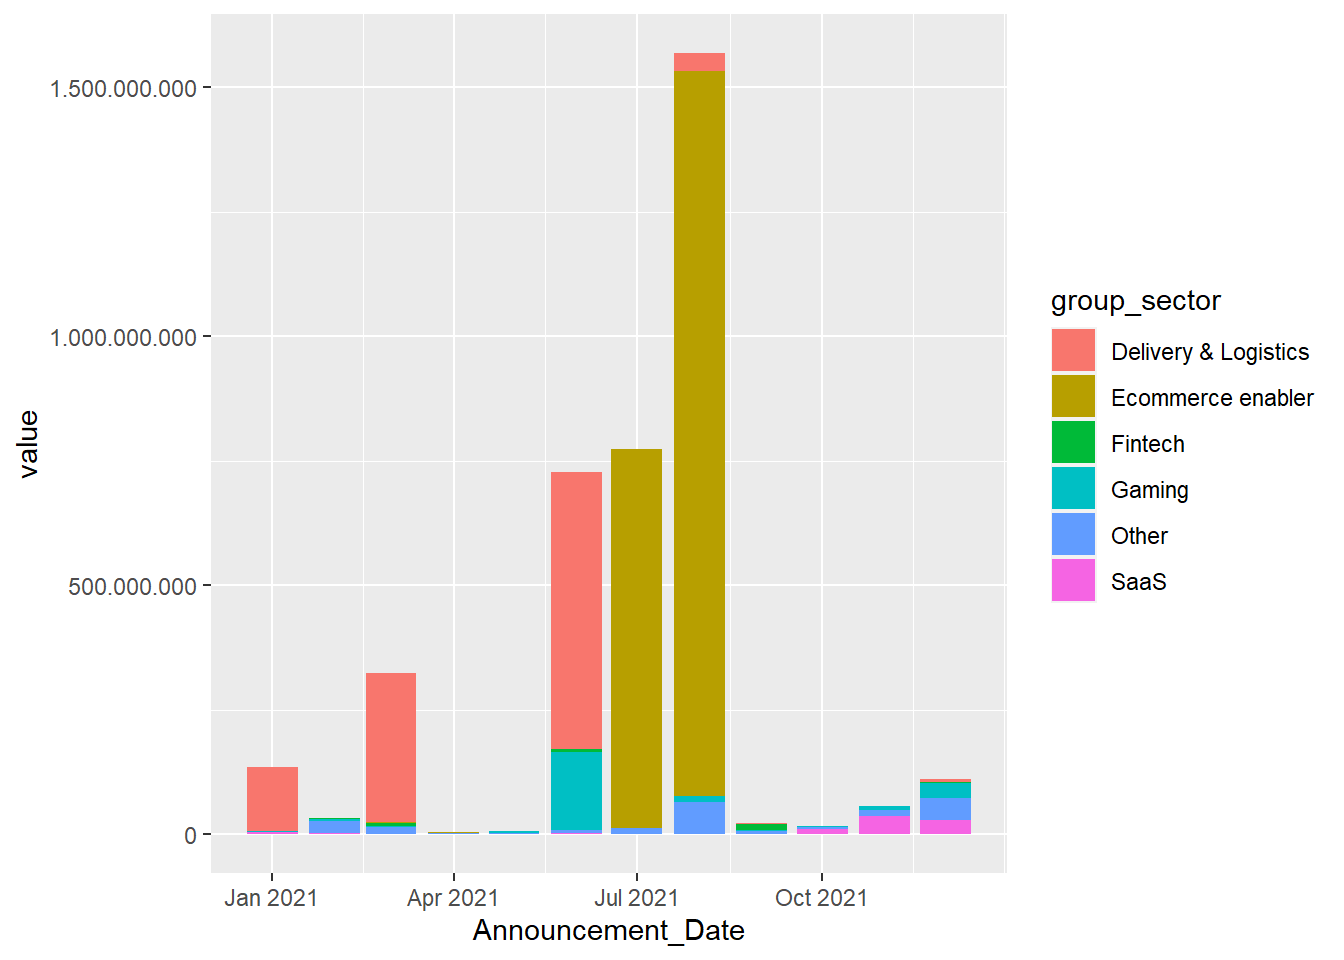
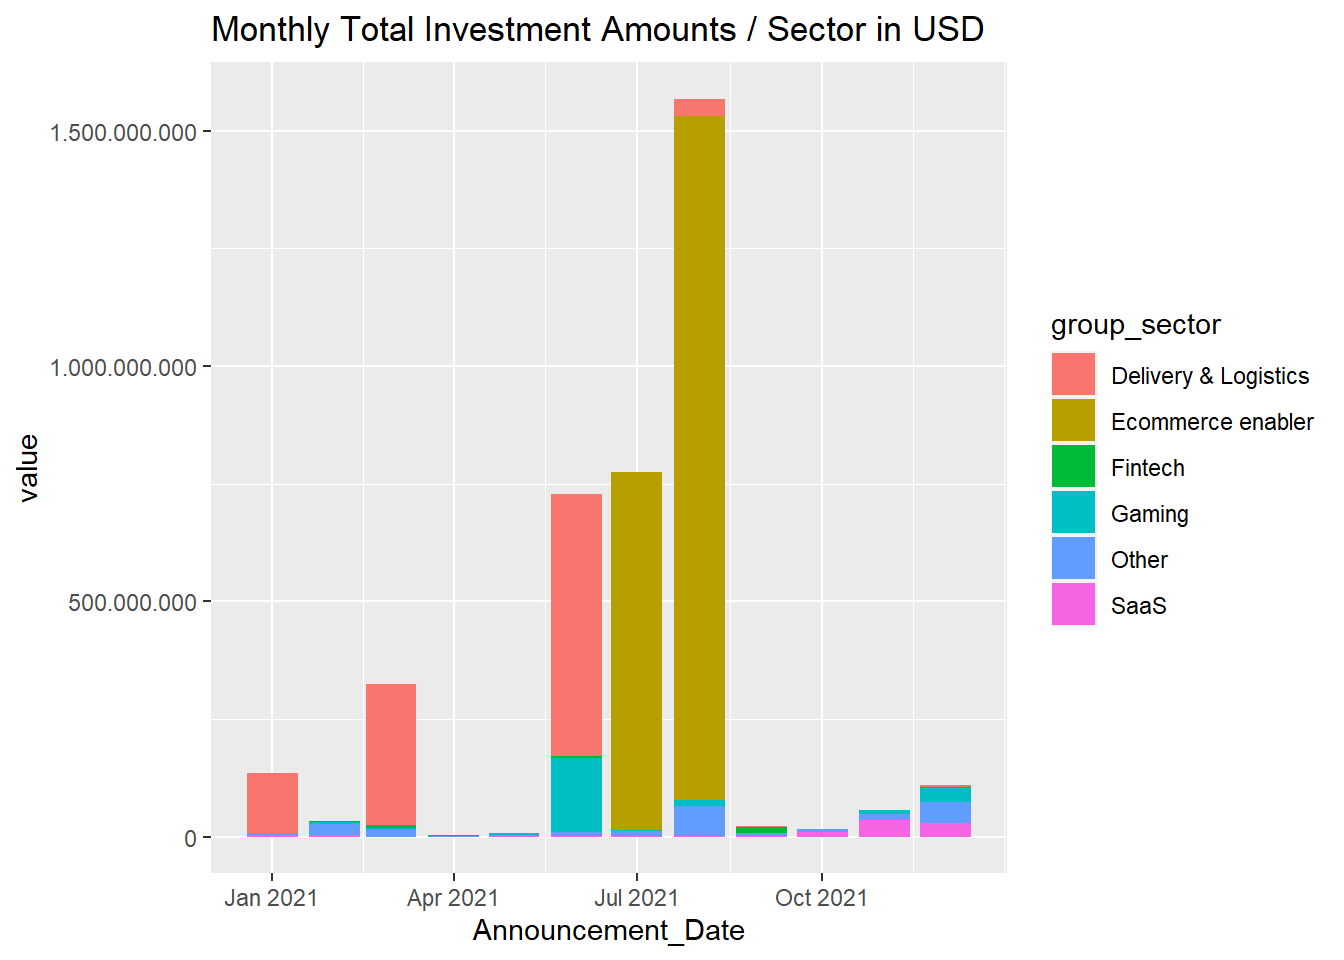
13.11 V2

diff --git a/docs/assignment1.html b/docs/assignment1.html
@@ -264,22 +264,21 @@ code span.wa { color: #60a0b0; font-weight: bold; font-style: italic; } /* Warni
 <span id="cb2-8"><a href="#cb2-8" aria-hidden="true" tabindex="-1"></a></span>
 <span id="cb2-9"><a href="#cb2-9" aria-hidden="true" tabindex="-1"></a><span class="co"># Convert data type of numeric columns from string to numeric</span></span>
 <span id="cb2-10"><a href="#cb2-10" aria-hidden="true" tabindex="-1"></a>startup<span class="sc">$</span><span class="st">`</span><span class="at">Deal_Value_(USD)</span><span class="st">`</span> <span class="ot">&lt;-</span> <span class="fu">as.numeric</span>(startup<span class="sc">$</span><span class="st">`</span><span class="at">Deal_Value_(USD)</span><span class="st">`</span>)</span>
-<span id="cb2-11"><a href="#cb2-11" aria-hidden="true" tabindex="-1"></a></span>
-<span id="cb2-12"><a href="#cb2-12" aria-hidden="true" tabindex="-1"></a><span class="co"># Convert percentages to numeric format</span></span>
-<span id="cb2-13"><a href="#cb2-13" aria-hidden="true" tabindex="-1"></a>startup<span class="sc">$</span><span class="st">`</span><span class="at">Stake_(%)</span><span class="st">`</span> <span class="ot">&lt;-</span> startup<span class="sc">$</span><span class="st">`</span><span class="at">Stake_(%)</span><span class="st">`</span> <span class="sc">%&gt;%</span> </span>
-<span id="cb2-14"><a href="#cb2-14" aria-hidden="true" tabindex="-1"></a>  <span class="fu">gsub</span>(<span class="st">"</span><span class="sc">\\</span><span class="st">..*"</span>, <span class="st">""</span>, .) <span class="sc">%&gt;%</span> </span>
-<span id="cb2-15"><a href="#cb2-15" aria-hidden="true" tabindex="-1"></a>  <span class="fu">gsub</span>(<span class="st">"%"</span>, <span class="st">""</span>, .) <span class="sc">%&gt;%</span> </span>
-<span id="cb2-16"><a href="#cb2-16" aria-hidden="true" tabindex="-1"></a>  <span class="fu">as.numeric</span>()</span>
-<span id="cb2-17"><a href="#cb2-17" aria-hidden="true" tabindex="-1"></a></span>
-<span id="cb2-18"><a href="#cb2-18" aria-hidden="true" tabindex="-1"></a><span class="co"># Convert string date to date format</span></span>
-<span id="cb2-19"><a href="#cb2-19" aria-hidden="true" tabindex="-1"></a>startup<span class="sc">$</span>Announcement_Date <span class="ot">&lt;-</span> startup<span class="sc">$</span>Announcement_Date <span class="sc">%&gt;%</span> </span>
-<span id="cb2-20"><a href="#cb2-20" aria-hidden="true" tabindex="-1"></a>  <span class="fu">paste</span>(<span class="st">"01"</span>, ., <span class="at">sep =</span> <span class="st">""</span>) <span class="sc">%&gt;%</span> </span>
-<span id="cb2-21"><a href="#cb2-21" aria-hidden="true" tabindex="-1"></a>  <span class="fu">parse_date_time</span>(., <span class="st">"dmy"</span>)</span>
-<span id="cb2-22"><a href="#cb2-22" aria-hidden="true" tabindex="-1"></a></span>
-<span id="cb2-23"><a href="#cb2-23" aria-hidden="true" tabindex="-1"></a><span class="co"># New columns for months and years</span></span>
-<span id="cb2-24"><a href="#cb2-24" aria-hidden="true" tabindex="-1"></a>startup<span class="sc">$</span>year <span class="ot">&lt;-</span> <span class="fu">year</span>(startup<span class="sc">$</span>Announcement_Date)</span>
-<span id="cb2-25"><a href="#cb2-25" aria-hidden="true" tabindex="-1"></a>startup<span class="sc">$</span>month <span class="ot">&lt;-</span> <span class="fu">month</span>(startup<span class="sc">$</span>Announcement_Date)</span>
-<span id="cb2-26"><a href="#cb2-26" aria-hidden="true" tabindex="-1"></a><span class="fu">str</span>(startup)</span></code><button title="Copy to Clipboard" class="code-copy-button"><i class="bi"></i></button></pre></div>
+<span id="cb2-11"><a href="#cb2-11" aria-hidden="true" tabindex="-1"></a><span class="co"># Convert percentages to numeric format</span></span>
+<span id="cb2-12"><a href="#cb2-12" aria-hidden="true" tabindex="-1"></a>startup<span class="sc">$</span><span class="st">`</span><span class="at">Stake_(%)</span><span class="st">`</span> <span class="ot">&lt;-</span> startup<span class="sc">$</span><span class="st">`</span><span class="at">Stake_(%)</span><span class="st">`</span> <span class="sc">%&gt;%</span> </span>
+<span id="cb2-13"><a href="#cb2-13" aria-hidden="true" tabindex="-1"></a>  <span class="fu">gsub</span>(<span class="st">"</span><span class="sc">\\</span><span class="st">..*"</span>, <span class="st">""</span>, .) <span class="sc">%&gt;%</span> </span>
+<span id="cb2-14"><a href="#cb2-14" aria-hidden="true" tabindex="-1"></a>  <span class="fu">gsub</span>(<span class="st">"%"</span>, <span class="st">""</span>, .) <span class="sc">%&gt;%</span> </span>
+<span id="cb2-15"><a href="#cb2-15" aria-hidden="true" tabindex="-1"></a>  <span class="fu">as.numeric</span>()</span>
+<span id="cb2-16"><a href="#cb2-16" aria-hidden="true" tabindex="-1"></a></span>
+<span id="cb2-17"><a href="#cb2-17" aria-hidden="true" tabindex="-1"></a><span class="co"># Convert string date to date format</span></span>
+<span id="cb2-18"><a href="#cb2-18" aria-hidden="true" tabindex="-1"></a>startup<span class="sc">$</span>Announcement_Date <span class="ot">&lt;-</span> startup<span class="sc">$</span>Announcement_Date <span class="sc">%&gt;%</span> </span>
+<span id="cb2-19"><a href="#cb2-19" aria-hidden="true" tabindex="-1"></a>  <span class="fu">paste</span>(<span class="st">"01"</span>, ., <span class="at">sep =</span> <span class="st">""</span>) <span class="sc">%&gt;%</span> </span>
+<span id="cb2-20"><a href="#cb2-20" aria-hidden="true" tabindex="-1"></a>  <span class="fu">parse_date_time</span>(., <span class="st">"dmy"</span>)</span>
+<span id="cb2-21"><a href="#cb2-21" aria-hidden="true" tabindex="-1"></a></span>
+<span id="cb2-22"><a href="#cb2-22" aria-hidden="true" tabindex="-1"></a><span class="co"># New columns for months and years</span></span>
+<span id="cb2-23"><a href="#cb2-23" aria-hidden="true" tabindex="-1"></a>startup<span class="sc">$</span>year <span class="ot">&lt;-</span> <span class="fu">year</span>(startup<span class="sc">$</span>Announcement_Date)</span>
+<span id="cb2-24"><a href="#cb2-24" aria-hidden="true" tabindex="-1"></a>startup<span class="sc">$</span>month <span class="ot">&lt;-</span> <span class="fu">month</span>(startup<span class="sc">$</span>Announcement_Date)</span>
+<span id="cb2-25"><a href="#cb2-25" aria-hidden="true" tabindex="-1"></a><span class="fu">str</span>(startup)</span></code><button title="Copy to Clipboard" class="code-copy-button"><i class="bi"></i></button></pre></div>
 <div class="cell-output cell-output-stdout">
 <pre><code>tibble [297 × 11] (S3: tbl_df/tbl/data.frame)
  $ Target_Company    : chr [1:297] "Abonesepeti" "Abrakadabra" "Ace Games" "Adlema" ...
@@ -307,7 +306,7 @@ code span.wa { color: #60a0b0; font-weight: bold; font-style: italic; } /* Warni
 <div class="cell-output cell-output-stderr">
 <pre><code>Selecting by total_value</code></pre>
 </div>
-<div class="sourceCode cell-code" id="cb6"><pre class="sourceCode r code-with-copy"><code class="sourceCode r"><span id="cb6-1"><a href="#cb6-1" aria-hidden="true" tabindex="-1"></a><span class="fu">kable</span>(top_5_sector_table)</span></code><button title="Copy to Clipboard" class="code-copy-button"><i class="bi"></i></button></pre></div>
+<div class="sourceCode cell-code" id="cb6"><pre class="sourceCode r code-with-copy"><code class="sourceCode r"><span id="cb6-1"><a href="#cb6-1" aria-hidden="true" tabindex="-1"></a><span class="fu">kable</span>(top_5_sector_table, <span class="at">format.args =</span> <span class="fu">list</span>(<span class="at">big.mark =</span> <span class="st">"."</span>))</span></code><button title="Copy to Clipboard" class="code-copy-button"><i class="bi"></i></button></pre></div>
 <div class="cell-output-display">
 <table class="table table-sm table-striped">
 <thead>
@@ -319,23 +318,23 @@ code span.wa { color: #60a0b0; font-weight: bold; font-style: italic; } /* Warni
 <tbody>
 <tr class="odd">
 <td style="text-align: left;">Ecommerce enabler</td>
-<td style="text-align: right;">2218940063</td>
+<td style="text-align: right;">2.218.940.063</td>
 </tr>
 <tr class="even">
 <td style="text-align: left;">Delivery &amp; Logistics</td>
-<td style="text-align: right;">1027811561</td>
+<td style="text-align: right;">1.027.811.561</td>
 </tr>
 <tr class="odd">
 <td style="text-align: left;">Gaming</td>
-<td style="text-align: right;">221235284</td>
+<td style="text-align: right;">221.235.284</td>
 </tr>
 <tr class="even">
 <td style="text-align: left;">SaaS</td>
-<td style="text-align: right;">84053230</td>
+<td style="text-align: right;">84.053.230</td>
 </tr>
 <tr class="odd">
 <td style="text-align: left;">Fintech</td>
-<td style="text-align: right;">28894578</td>
+<td style="text-align: right;">28.894.578</td>
 </tr>
 </tbody>
 </table>
@@ -365,7 +364,8 @@ code span.wa { color: #60a0b0; font-weight: bold; font-style: italic; } /* Warni
 <span id="cb9-9"><a href="#cb9-9" aria-hidden="true" tabindex="-1"></a>  <span class="fu">ggplot</span>(<span class="fu">aes</span>(<span class="at">x =</span> Announcement_Date, <span class="at">y =</span> value, <span class="at">fill =</span> group_sector)) <span class="sc">+</span></span>
 <span id="cb9-10"><a href="#cb9-10" aria-hidden="true" tabindex="-1"></a>  <span class="fu">geom_col</span>() <span class="sc">+</span></span>
 <span id="cb9-11"><a href="#cb9-11" aria-hidden="true" tabindex="-1"></a>  <span class="fu">scale_y_continuous</span>(<span class="at">labels =</span> <span class="fu">comma_format</span>(<span class="at">big.mark =</span> <span class="st">"."</span>,</span>
-<span id="cb9-12"><a href="#cb9-12" aria-hidden="true" tabindex="-1"></a>                                           <span class="at">decimal.mark =</span> <span class="st">","</span>))</span></code><button title="Copy to Clipboard" class="code-copy-button"><i class="bi"></i></button></pre></div>
+<span id="cb9-12"><a href="#cb9-12" aria-hidden="true" tabindex="-1"></a>                                           <span class="at">decimal.mark =</span> <span class="st">","</span>))<span class="sc">+</span></span>
+<span id="cb9-13"><a href="#cb9-13" aria-hidden="true" tabindex="-1"></a>  <span class="fu">ggtitle</span>(<span class="st">"Monthly Total Investment Amounts / Sector in USD "</span>)</span></code><button title="Copy to Clipboard" class="code-copy-button"><i class="bi"></i></button></pre></div>
 <div class="cell-output cell-output-stderr">
 <pre><code>`summarise()` has grouped output by 'Announcement_Date'. You can override using
 the `.groups` argument.</code></pre>
@@ -417,7 +417,8 @@ the `.groups` argument.</code></pre>
 </div>
 <div class="sourceCode cell-code" id="cb15"><pre class="sourceCode r code-with-copy"><code class="sourceCode r"><span id="cb15-1"><a href="#cb15-1" aria-hidden="true" tabindex="-1"></a>startup_percent_group <span class="sc">%&gt;%</span> </span>
 <span id="cb15-2"><a href="#cb15-2" aria-hidden="true" tabindex="-1"></a>  <span class="fu">ggplot</span>(<span class="fu">aes</span>(<span class="at">x =</span> group_company, <span class="at">y =</span> group_percent)) <span class="sc">+</span></span>
-<span id="cb15-3"><a href="#cb15-3" aria-hidden="true" tabindex="-1"></a>  <span class="fu">geom_col</span>(<span class="at">fill =</span> <span class="st">"blue"</span>)</span></code><button title="Copy to Clipboard" class="code-copy-button"><i class="bi"></i></button></pre></div>
+<span id="cb15-3"><a href="#cb15-3" aria-hidden="true" tabindex="-1"></a>  <span class="fu">geom_col</span>(<span class="at">fill =</span> <span class="st">"blue"</span>)<span class="sc">+</span></span>
+<span id="cb15-4"><a href="#cb15-4" aria-hidden="true" tabindex="-1"></a>  <span class="fu">ggtitle</span>(<span class="st">"Top 4 Companies With The Largest Total Investment &amp; Shares "</span>)</span></code><button title="Copy to Clipboard" class="code-copy-button"><i class="bi"></i></button></pre></div>
 <div class="cell-output-display">
 <p><img src="assignment1_files/figure-html/unnamed-chunk-4-1.png" class="img-fluid" width="672"></p>
 </div>
@@ -463,11 +464,14 @@ the `.groups` argument.</code></pre>
 10 Germany           7635684.              4
 # … with 12 more rows</code></pre>
 </div>
-<div class="sourceCode cell-code" id="cb18"><pre class="sourceCode r code-with-copy"><code class="sourceCode r"><span id="cb18-1"><a href="#cb18-1" aria-hidden="true" tabindex="-1"></a><span class="co"># Graph investment deals and number of transactions of highest 10 countries in 2021</span></span>
+<div class="sourceCode cell-code" id="cb18"><pre class="sourceCode r code-with-copy"><code class="sourceCode r"><span id="cb18-1"><a href="#cb18-1" aria-hidden="true" tabindex="-1"></a><span class="co"># Graph investment deals and number of transactions for top 10 investor origin countries in 2021</span></span>
 <span id="cb18-2"><a href="#cb18-2" aria-hidden="true" tabindex="-1"></a>startup_country_graph <span class="sc">%&gt;%</span> </span>
 <span id="cb18-3"><a href="#cb18-3" aria-hidden="true" tabindex="-1"></a>  <span class="fu">top_n</span>(<span class="at">n =</span> <span class="dv">5</span>) <span class="sc">%&gt;%</span> </span>
 <span id="cb18-4"><a href="#cb18-4" aria-hidden="true" tabindex="-1"></a>  <span class="fu">ggplot</span>(<span class="fu">aes</span>(<span class="at">x =</span> country_name, <span class="at">y =</span> country_total)) <span class="sc">+</span></span>
-<span id="cb18-5"><a href="#cb18-5" aria-hidden="true" tabindex="-1"></a>  <span class="fu">geom_col</span>()</span></code><button title="Copy to Clipboard" class="code-copy-button"><i class="bi"></i></button></pre></div>
+<span id="cb18-5"><a href="#cb18-5" aria-hidden="true" tabindex="-1"></a>  <span class="fu">geom_col</span>()<span class="sc">+</span></span>
+<span id="cb18-6"><a href="#cb18-6" aria-hidden="true" tabindex="-1"></a>  <span class="fu">scale_y_continuous</span>(<span class="at">labels =</span> <span class="fu">comma_format</span>(<span class="at">big.mark =</span> <span class="st">"."</span>,</span>
+<span id="cb18-7"><a href="#cb18-7" aria-hidden="true" tabindex="-1"></a>                                           <span class="at">decimal.mark =</span> <span class="st">","</span>))<span class="sc">+</span></span>
+<span id="cb18-8"><a href="#cb18-8" aria-hidden="true" tabindex="-1"></a>  <span class="fu">ggtitle</span>(<span class="st">"Top Investing Countries (Total Amount in USD) "</span>)</span></code><button title="Copy to Clipboard" class="code-copy-button"><i class="bi"></i></button></pre></div>
 <div class="cell-output cell-output-stderr">
 <pre><code>Selecting by country_number</code></pre>
 </div>
@@ -477,7 +481,10 @@ the `.groups` argument.</code></pre>
 <div class="sourceCode cell-code" id="cb20"><pre class="sourceCode r code-with-copy"><code class="sourceCode r"><span id="cb20-1"><a href="#cb20-1" aria-hidden="true" tabindex="-1"></a>startup_country_graph <span class="sc">%&gt;%</span> </span>
 <span id="cb20-2"><a href="#cb20-2" aria-hidden="true" tabindex="-1"></a>  <span class="fu">top_n</span>(<span class="at">n =</span> <span class="dv">5</span>) <span class="sc">%&gt;%</span> </span>
 <span id="cb20-3"><a href="#cb20-3" aria-hidden="true" tabindex="-1"></a>  <span class="fu">ggplot</span>(<span class="fu">aes</span>(<span class="at">x =</span> country_name, <span class="at">y =</span> country_number)) <span class="sc">+</span></span>
-<span id="cb20-4"><a href="#cb20-4" aria-hidden="true" tabindex="-1"></a>  <span class="fu">geom_col</span>() </span></code><button title="Copy to Clipboard" class="code-copy-button"><i class="bi"></i></button></pre></div>
+<span id="cb20-4"><a href="#cb20-4" aria-hidden="true" tabindex="-1"></a>  <span class="fu">geom_col</span>() <span class="sc">+</span></span>
+<span id="cb20-5"><a href="#cb20-5" aria-hidden="true" tabindex="-1"></a>  <span class="fu">scale_y_continuous</span>(<span class="at">labels =</span> <span class="fu">comma_format</span>(<span class="at">big.mark =</span> <span class="st">"."</span>,</span>
+<span id="cb20-6"><a href="#cb20-6" aria-hidden="true" tabindex="-1"></a>                                           <span class="at">decimal.mark =</span> <span class="st">","</span>))<span class="sc">+</span></span>
+<span id="cb20-7"><a href="#cb20-7" aria-hidden="true" tabindex="-1"></a>  <span class="fu">ggtitle</span>(<span class="st">"Top Investing Countries (# of Investments) "</span>)</span></code><button title="Copy to Clipboard" class="code-copy-button"><i class="bi"></i></button></pre></div>
 <div class="cell-output cell-output-stderr">
 <pre><code>Selecting by country_number</code></pre>
 </div>
@@ -500,7 +507,8 @@ the `.groups` argument.</code></pre>
 <span id="cb22-9"><a href="#cb22-9" aria-hidden="true" tabindex="-1"></a>  <span class="fu">ggplot</span>(<span class="fu">aes</span>(<span class="at">x =</span> type, <span class="at">y =</span> deal_value)) <span class="sc">+</span> </span>
 <span id="cb22-10"><a href="#cb22-10" aria-hidden="true" tabindex="-1"></a>  <span class="fu">geom_col</span>() <span class="sc">+</span>  </span>
 <span id="cb22-11"><a href="#cb22-11" aria-hidden="true" tabindex="-1"></a>  <span class="fu">scale_y_continuous</span>(<span class="at">labels =</span> <span class="fu">comma_format</span>(<span class="at">big.mark =</span> <span class="st">"."</span>,</span>
-<span id="cb22-12"><a href="#cb22-12" aria-hidden="true" tabindex="-1"></a>                                           <span class="at">decimal.mark =</span> <span class="st">","</span>))</span></code><button title="Copy to Clipboard" class="code-copy-button"><i class="bi"></i></button></pre></div>
+<span id="cb22-12"><a href="#cb22-12" aria-hidden="true" tabindex="-1"></a>                                           <span class="at">decimal.mark =</span> <span class="st">","</span>))<span class="sc">+</span></span>
+<span id="cb22-13"><a href="#cb22-13" aria-hidden="true" tabindex="-1"></a>  <span class="fu">ggtitle</span>(<span class="st">" Domestic vs. Foreign Investment Amounts "</span>)</span></code><button title="Copy to Clipboard" class="code-copy-button"><i class="bi"></i></button></pre></div>
 <div class="cell-output-display">
 <p><img src="assignment1_files/figure-html/unnamed-chunk-6-1.png" class="img-fluid" width="672"></p>
 </div>

diff --git a/docs/index.html b/docs/index.html
@@ -155,6 +155,12 @@ ul.task-list li input[type="checkbox"] {
 <section id="introduction" class="level1 unnumbered">
 <h1 class="unnumbered">Introduction</h1>
 <!-- DO NOT TOUCH THIS PART EXCEPT FILLING YOUR OR YOUR GROUP's NAME -->
+<div class="quarto-figure quarto-figure-center">
+<figure class="figure">
+<p><img src="https://scitechdaily.com/images/Time-Space-Cosmos-Concept.jpg?ezimgfmt=ng%3Awebp%2Fngcb2%2Frs%3Adevice%2Frscb2-1" class="img-fluid figure-img" width="390"></p>
+</figure>
+</div>
+<p><a href="https://scitechdaily.com/does-time-exist-how-do-we-know/">Image Source</a></p>
 <p>This progress journal covers Time and Space’s work during their term at <a href="https://mef-bda503.github.io/fall22/">BDA 503 Fall 2022</a>.</p>
 <p>Each section is an assignment or an individual work.</p>
 <!-- IF THIS IS A GROUP UNCOMMENT BELOW -->
